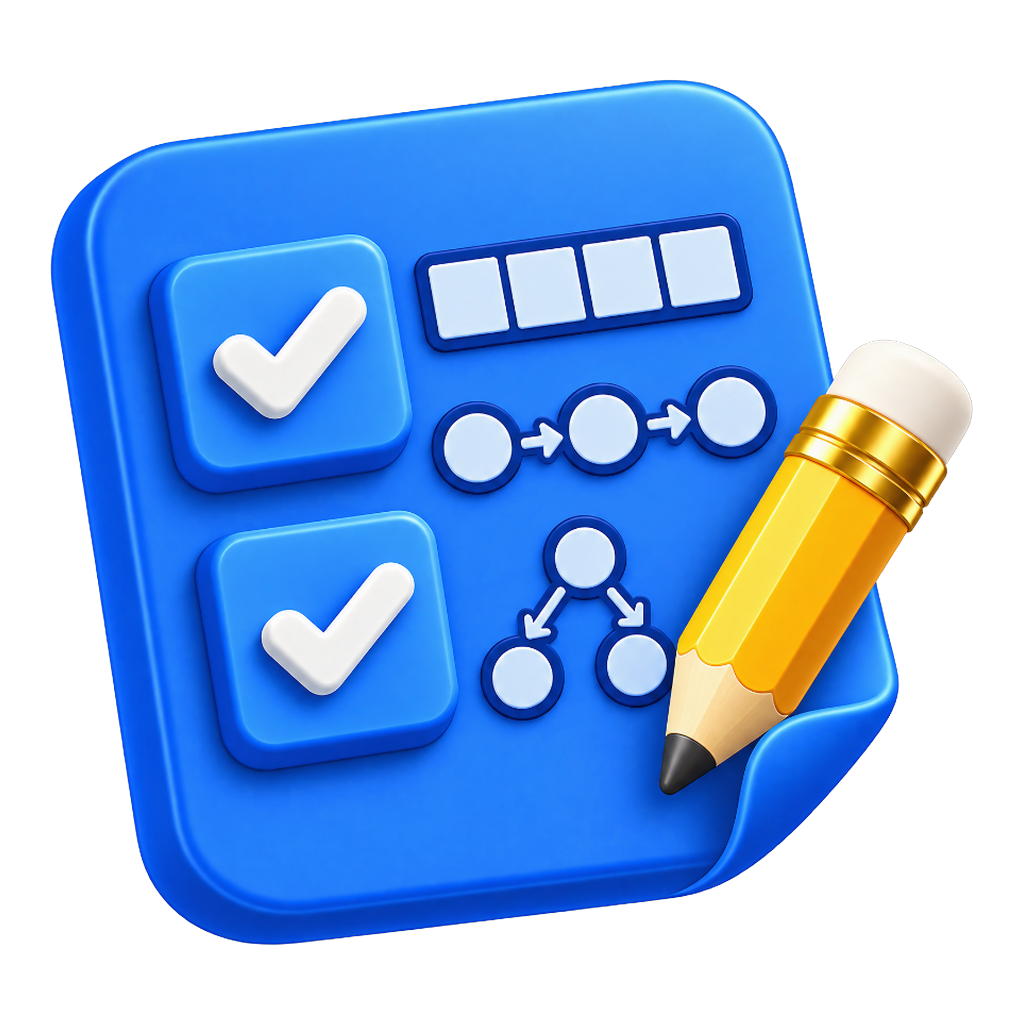
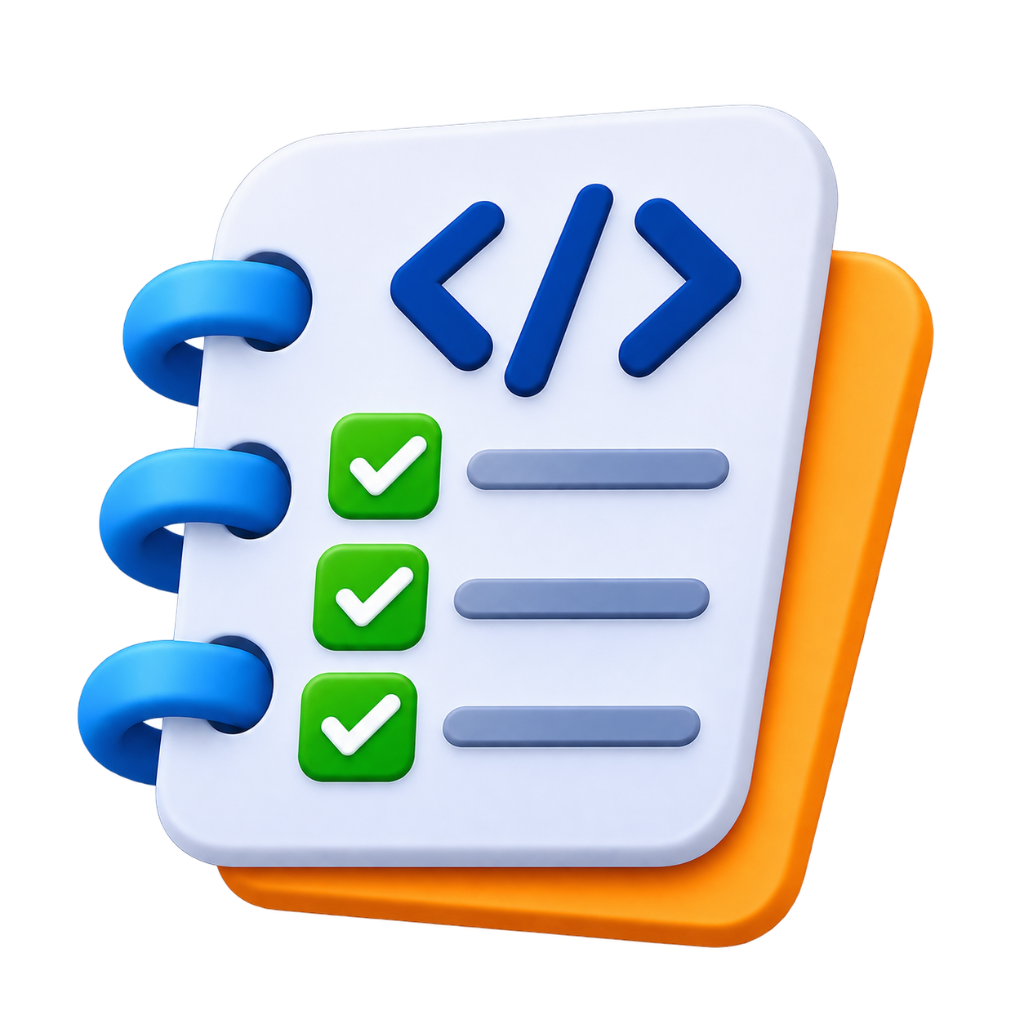
changes made in the ui

diff --git a/frontend/components/icons/AnalyticsIcon.tsx b/frontend/components/icons/AnalyticsIcon.tsx
@@ -1,0 +1,112 @@
+"use client";
+
+import React, { forwardRef, useImperativeHandle, useState } from "react";
+import { motion } from "framer-motion";
+import { usePathname } from "next/navigation";
+import type { AnimatedIconHandle } from "./types";
+
+export interface AnalyticsIconProps {
+  size?: number;
+  active?: boolean;
+  className?: string;
+  strokeWidth?: number;
+  onClick?: () => void;
+}
+
+/**
+ * Pie-chart Analytics icon with detached top-right wedge.
+ * - Inactive: crisp rounded outline (`currentColor`).
+ * - Active / Clicked: fills solidly with Acid Lime (#D5FF38), plays a subtle
+ *   wedge-pop transition, and enforces strict zero glow.
+ */
+const AnalyticsIcon = forwardRef<AnimatedIconHandle, AnalyticsIconProps>(
+  ({ size = 22, active: propActive, className = "", strokeWidth = 2, onClick }, ref) => {
+    const pathname = usePathname();
+    const isActive = propActive !== undefined ? propActive : pathname.startsWith("/analytics");
+    const [clickCount, setClickCount] = useState(0);
+
+    const handleTrigger = () => {
+      setClickCount((c) => c + 1);
+      if (onClick) onClick();
+    };
+
+    useImperativeHandle(ref, () => ({
+      startAnimation: () => setClickCount((c) => c + 1),
+      stopAnimation: () => {},
+    }));
+
+    const strokeColor = isActive ? "#D5FF38" : "currentColor";
+    const fillColor = isActive ? "#D5FF38" : "transparent";
+
+    return (
+      <motion.div
+        key={clickCount}
+        onClick={handleTrigger}
+        whileTap={{ scale: 0.88 }}
+        animate={
+          isActive || clickCount > 0
+            ? { scale: [1, 0.9, 1.1, 1] }
+            : { scale: 1 }
+        }
+        transition={{
+          duration: 0.34,
+          ease: [0.34, 1.56, 0.64, 1],
+        }}
+        className="inline-flex items-center justify-center shrink-0 cursor-pointer select-none"
+        style={{ filter: "none" }}
+      >
+        <svg
+          width={size}
+          height={size}
+          viewBox="0 0 24 24"
+          fill="none"
+          stroke={strokeColor}
+          strokeWidth={strokeWidth}
+          strokeLinecap="round"
+          strokeLinejoin="round"
+          aria-hidden="true"
+          className={`overflow-visible select-none transition-colors duration-200 ${className}`}
+          style={{ filter: "none" }}
+        >
+          {/* Main 270° sector (bottom-left) */}
+          <motion.path
+            d="M 10.2 6.2 L 10.2 12.1 Q 10.2 13.8 11.9 13.8 L 17.8 13.8 A 7.6 7.6 0 1 1 10.2 6.2 Z"
+            animate={{
+              fill: fillColor,
+              stroke: strokeColor,
+            }}
+            transition={{ duration: 0.2 }}
+          />
+
+          {/* Detached quarter wedge (top-right) with subtle pop transition on click/active */}
+          <motion.path
+            d="M 13.2 10.8 L 13.2 3.2 A 7.6 7.6 0 0 1 20.8 10.8 Z"
+            animate={
+              isActive || clickCount > 0
+                ? {
+                    fill: fillColor,
+                    stroke: strokeColor,
+                    x: [0, 1.5, 0.4],
+                    y: [0, -1.5, -0.4],
+                  }
+                : {
+                    fill: fillColor,
+                    stroke: strokeColor,
+                    x: 0,
+                    y: 0,
+                  }
+            }
+            transition={{
+              duration: 0.32,
+              ease: [0.34, 1.56, 0.64, 1],
+            }}
+          />
+        </svg>
+      </motion.div>
+    );
+  }
+);
+
+AnalyticsIcon.displayName = "AnalyticsIcon";
+
+export default AnalyticsIcon;

diff --git a/frontend/tests/analytics-icon.test.ts b/frontend/tests/analytics-icon.test.ts
@@ -1,0 +1,39 @@
+import { describe, it } from "node:test";
+import assert from "node:assert";
+import fs from "node:fs";
+import path from "node:path";
+import AnalyticsIcon from "@/components/icons/AnalyticsIcon";
+
+describe("Analytics Pie Chart Icon & Acid Lime Transition Suite", () => {
+  it("exports a valid React component for AnalyticsIcon", () => {
+    assert.ok(AnalyticsIcon, "AnalyticsIcon must be exported");
+  });
+
+  it("implements pie-chart sectors with Acid Lime #D5FF38 fill on active/click, small pop transition, and zero glow", () => {
+    const iconPath = path.join(process.cwd(), "components", "icons", "AnalyticsIcon.tsx");
+    assert.ok(fs.existsSync(iconPath), "AnalyticsIcon.tsx must exist");
+    const src = fs.readFileSync(iconPath, "utf-8");
+
+    assert.ok(src.includes("#D5FF38"), "Must fill active/clicked state with Acid Lime #D5FF38");
+    assert.ok(src.includes("fill: fillColor"), "Must animate/fill SVG sectors with fillColor");
+    assert.ok(src.includes('filter: "none"'), "Must enforce strict zero glow");
+    assert.ok(!src.includes("drop-shadow"), "Must not use drop-shadow glow");
+    assert.ok(src.includes("whileTap"), "Must play tap feedback on click");
+    assert.ok(src.includes("clickCount"), "Must trigger transition effect on click");
+  });
+
+  it("wires AnalyticsIcon into CareerDownbar, Sidebar, MobileNav, MobileQuickDock, and KineticNav", () => {
+    const targets = [
+      "components/career/CareerDownbar.tsx",
+      "components/Sidebar.tsx",
+      "components/MobileNav.tsx",
+      "components/MobileQuickDock.tsx",
+      "components/ui/sterling-gate-kinetic-navigation.tsx",
+    ];
+    for (const rel of targets) {
+      const fullPath = path.join(process.cwd(), rel);
+      const src = fs.readFileSync(fullPath, "utf-8");
+      assert.ok(src.includes("AnalyticsIcon"), `${rel} must use AnalyticsIcon`);
+    }
+  });
+});

diff --git a/frontend/components/career/CareerDownbar.tsx b/frontend/components/career/CareerDownbar.tsx
@@ -9,9 +9,9 @@ import {
   BookOpen,
   Target,
   Briefcase,
-  BarChart3,
   ArrowLeft,
 } from "lucide-react";
+import AnalyticsIcon from "@/components/icons/AnalyticsIcon";
 import {
   DOWNBAR_NAV_CLASS,
   DOWNBAR_CIRCLE_SIZE_CLASS,
@@ -66,7 +66,7 @@ export const CAREER_TABS: CareerTabItem[] = [
     id: "analytics",
     label: "Analytics",
     href: "/analytics",
-    icon: BarChart3,
+    icon: AnalyticsIcon,
     activeColor: "text-[#D5FF38]",
   },
 ];
@@ -186,11 +186,20 @@ export default function CareerDownbar({
                 transition={{ type: "spring", stiffness: 400, damping: 25 }}
                 className="shrink-0 flex items-center justify-center"
               >
-                <Icon
-                  className={`${DOWNBAR_ICON_SIZE_CLASS} transition-colors ${
-                    isActive ? "text-[#D5FF38]" : "text-neutral-400 group-hover:text-white group-active:text-[#D5FF38]"
-                  }`}
-                />
+                {tab.id === "analytics" ? (
+                  <AnalyticsIcon
+                    active={isActive}
+                    className={`${DOWNBAR_ICON_SIZE_CLASS} transition-colors ${
+                      isActive ? "text-[#D5FF38]" : "text-neutral-400 group-hover:text-white group-active:text-[#D5FF38]"
+                    }`}
+                  />
+                ) : (
+                  <Icon
+                    className={`${DOWNBAR_ICON_SIZE_CLASS} transition-colors ${
+                      isActive ? "text-[#D5FF38]" : "text-neutral-400 group-hover:text-white group-active:text-[#D5FF38]"
+                    }`}
+                  />
+                )}
               </motion.div>
 
               <span className={`${DOWNBAR_LABEL_CLASS} transition-colors ${

diff --git a/frontend/components/QuickHubNav.tsx b/frontend/components/QuickHubNav.tsx
@@ -213,10 +213,11 @@ export default function QuickHubNav() {
               >
                 <div className="w-[54px] h-[54px] xs:w-[60px] xs:h-[60px] rounded-full bg-slate-100 dark:bg-white/[0.06] flex items-center justify-center p-1 transition-transform duration-300 group-hover/item:scale-108">
                   <Image
-                    src="/images/hub/dsa_sheets_3d.png"
+                    src="/images/hub/dsa_sheets_3d.png?v=2"
                     alt="DSA Sheets 3D Checklist"
                     width={54}
                     height={54}
+                    unoptimized
                     priority
                     className="w-full h-full object-contain drop-shadow-[0_2px_8px_rgba(0,0,0,0.3)]"
                   />
@@ -350,10 +351,11 @@ export default function QuickHubNav() {
               <div className="w-15 h-15 sm:w-18 sm:h-18 md:w-20 md:h-20 flex items-center justify-center group-hover:scale-108 transition-all duration-300">
                 <div className="relative w-full h-full flex items-center justify-center">
                   <Image
-                    src="/images/hub/dsa_sheets_3d.png"
+                    src="/images/hub/dsa_sheets_3d.png?v=2"
                     alt="DSA Sheets 3D Checklist"
                     width={72}
                     height={72}
+                    unoptimized
                     priority
                     className="w-full h-full object-contain drop-shadow-[0_4px_10px_rgba(0,0,0,0.35)] transition-transform duration-300 group-hover:scale-105"
                   />

diff --git a/frontend/components/MobileNav.tsx b/frontend/components/MobileNav.tsx
@@ -11,7 +11,6 @@ import {
   Target,
   Briefcase,
   Sparkles,
-  BarChart3,
   Code2,
   Flame,
   Zap,
@@ -37,6 +36,7 @@ import BookIcon from "@/components/icons/BookIcon";
 import UserIcon from "@/components/icons/UserIcon";
 import ExploreIcon from "@/components/icons/ExploreIcon";
 import Home3DIcon from "@/components/icons/Home3DIcon";
+import AnalyticsIcon from "@/components/icons/AnalyticsIcon";
 import SkillsCatalystLogo from "@/components/SkillsCatalystLogo";
 import ThreeDSquircleTile from "@/components/ThreeDSquircleTile";
 import CareerDownbar from "@/components/career/CareerDownbar";
@@ -55,7 +55,7 @@ const navItems = [
   { name: "Practice", href: "/practice", icon: Target, desc: "Aptitude & company questions" },
   { name: "Career", href: "/career", icon: Briefcase, desc: "AI resume analysis" },
   { name: "Explore", href: "/explore", icon: ExploreIcon, desc: "Trending skills & tools" },
-  { name: "Analytics", href: "/analytics", icon: BarChart3, desc: "Detailed performance" },
+  { name: "Analytics", href: "/analytics", icon: AnalyticsIcon, desc: "Detailed performance" },
   { name: "Support & Help", href: "/support", icon: LifeBuoy, desc: "Customer desk & policies" },
   { name: "Profile", href: "/profile", icon: UserIcon, desc: "Account & settings" },
 ];

diff --git a/frontend/components/MobileQuickDock.tsx b/frontend/components/MobileQuickDock.tsx
@@ -8,7 +8,6 @@ import {
   Map,
   Target,
   Briefcase,
-  BarChart3,
   Code2,
   Telescope,
   Film,
@@ -19,6 +18,7 @@ import ThreeDSquircleTile from "@/components/ThreeDSquircleTile";
 import BookIcon from "@/components/icons/BookIcon";
 import UserIcon from "@/components/icons/UserIcon";
 import ExploreIcon from "@/components/icons/ExploreIcon";
+import AnalyticsIcon from "@/components/icons/AnalyticsIcon";
 import { useAuth } from "@/lib/auth";
 
 export default function MobileQuickDock() {
@@ -92,7 +92,7 @@ export default function MobileQuickDock() {
       id: "analytics",
       name: "Analytics",
       href: "/analytics",
-      icon: BarChart3,
+      icon: AnalyticsIcon,
       desc: "Metrics",
     },
     {

diff --git a/frontend/components/ui/sterling-gate-kinetic-navigation.tsx b/frontend/components/ui/sterling-gate-kinetic-navigation.tsx
@@ -5,6 +5,7 @@ import Link from "next/link";
 import { useRouter } from "next/navigation";
 import gsap from "gsap";
 import { CustomEase } from "gsap/CustomEase";
+import AnalyticsIcon from "@/components/icons/AnalyticsIcon";
 import {
   LayoutGrid,
   BookOpen,
@@ -12,7 +13,6 @@ import {
   Target,
   Briefcase,
   Compass,
-  BarChart3,
   User,
   ChevronRight,
   LifeBuoy,
@@ -147,7 +147,7 @@ const defaultFeatures: NavFeatureItem[] = [
     title: "Analytics",
     subtitle: "Readiness & Performance",
     href: "/analytics",
-    icon: BarChart3,
+    icon: AnalyticsIcon,
     accentColor: "rgba(139, 92, 246, 0.2)",
   },
   {

diff --git a/frontend/components/Sidebar.tsx b/frontend/components/Sidebar.tsx
@@ -15,7 +15,6 @@ import {
   Newspaper,
   Briefcase,
   Bot,
-  BarChart3,
   User,
   Headset,
   LogOut,
@@ -31,6 +30,7 @@ import {
 } from "lucide-react";
 import { useAuth } from "@/lib/auth";
 import { SidebarProvider } from "@/components/ui/sidebar";
+import AnalyticsIcon from "@/components/icons/AnalyticsIcon";
 
 export type NavItemData = {
   id: string;
@@ -157,7 +157,7 @@ export default function Sidebar() {
       id: "analytics",
       title: "Analytics",
       href: "/analytics",
-      icon: BarChart3,
+      icon: AnalyticsIcon,
     },
   ];
 
